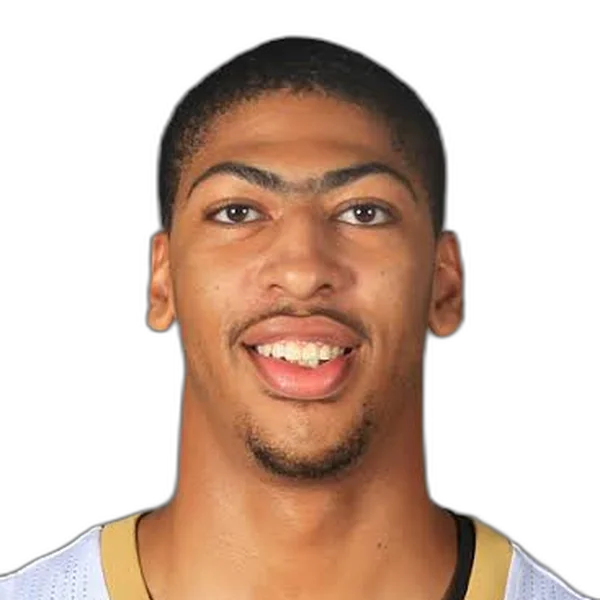
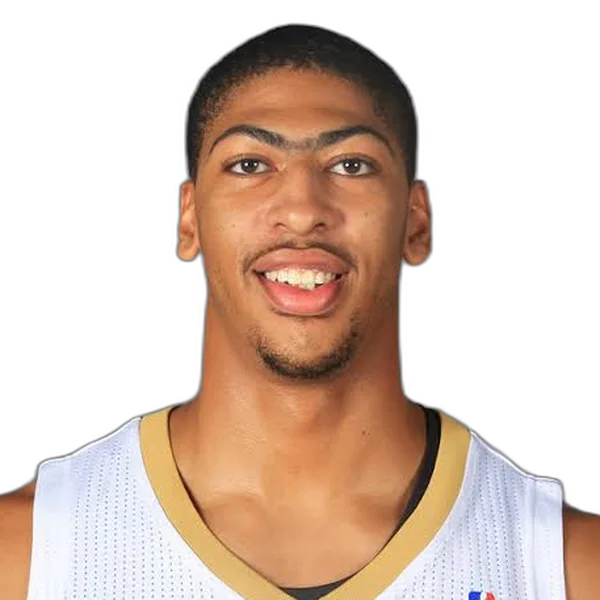
Redo recent portraits with the corrected framing; sw v416
Claude-Session: https://claude.ai/code/session_01MwZ67aepJJhUZJuSBZ7izX

diff --git a/sw.js b/sw.js
@@ -1,5 +1,5 @@
 /* Offline support: always try the network first, fall back to the cache. */
-var CACHE = 'nba-eras-v415';
+var CACHE = 'nba-eras-v416';
 var SHELL = [
   './',
   'index.html',
